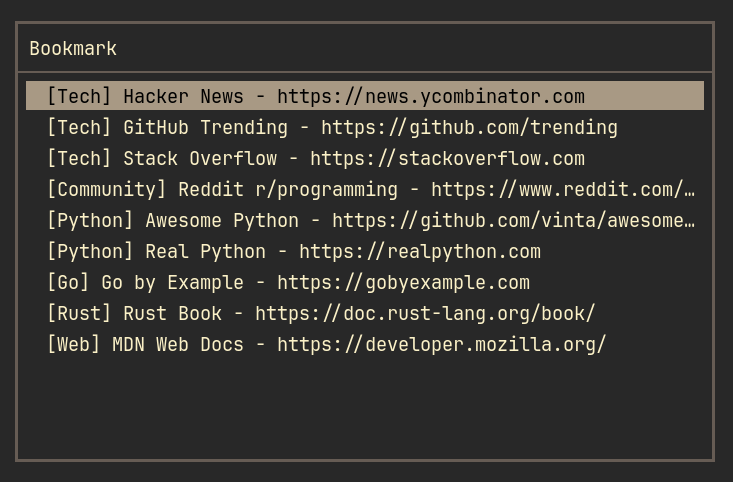
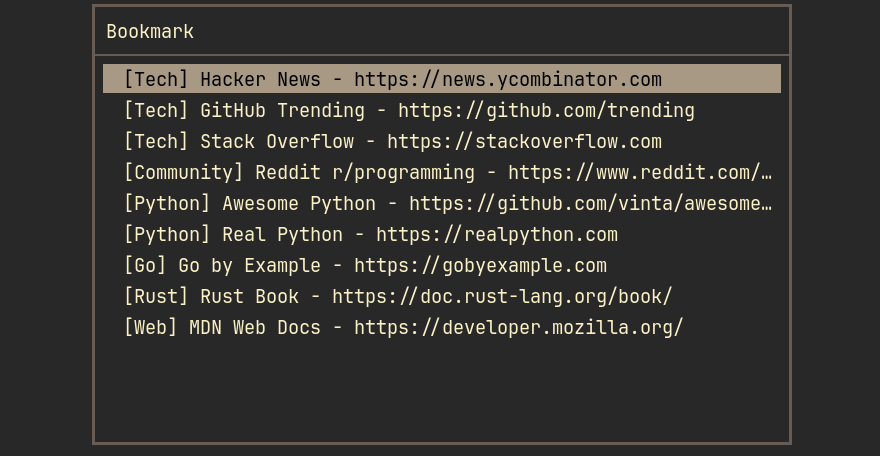
updated screenhsots

Changed region(s): [[0.0, 0.0, 0.9905, 0.9825]]

diff --git a/README.md b/README.md
@@ -2,18 +2,9 @@
 
 Minimal ncurses-style bookmark manager (keyboard only).
 
-## Screenshots
+## Screenshot
 
-<table>
-  <tr>
-    <td><img src="screenshot/screenshot_main_view.png" alt="Main view" width="420"></td>
-    <td><img src="screenshot/screenshot_edit_url.png" alt="Edit prompt" width="420"></td>
-  </tr>
-  <tr>
-    <td><img src="screenshot/screenshot_color_settings.png" alt="Color settings" width="420"></td>
-    <td><img src="screenshot/screenshot_rofi_picker.png" alt="Rofi picker" width="420"></td>
-  </tr>
-</table>
+![Main View](screenshot/screenshot_main_view.png)
 
 ## Run
 
